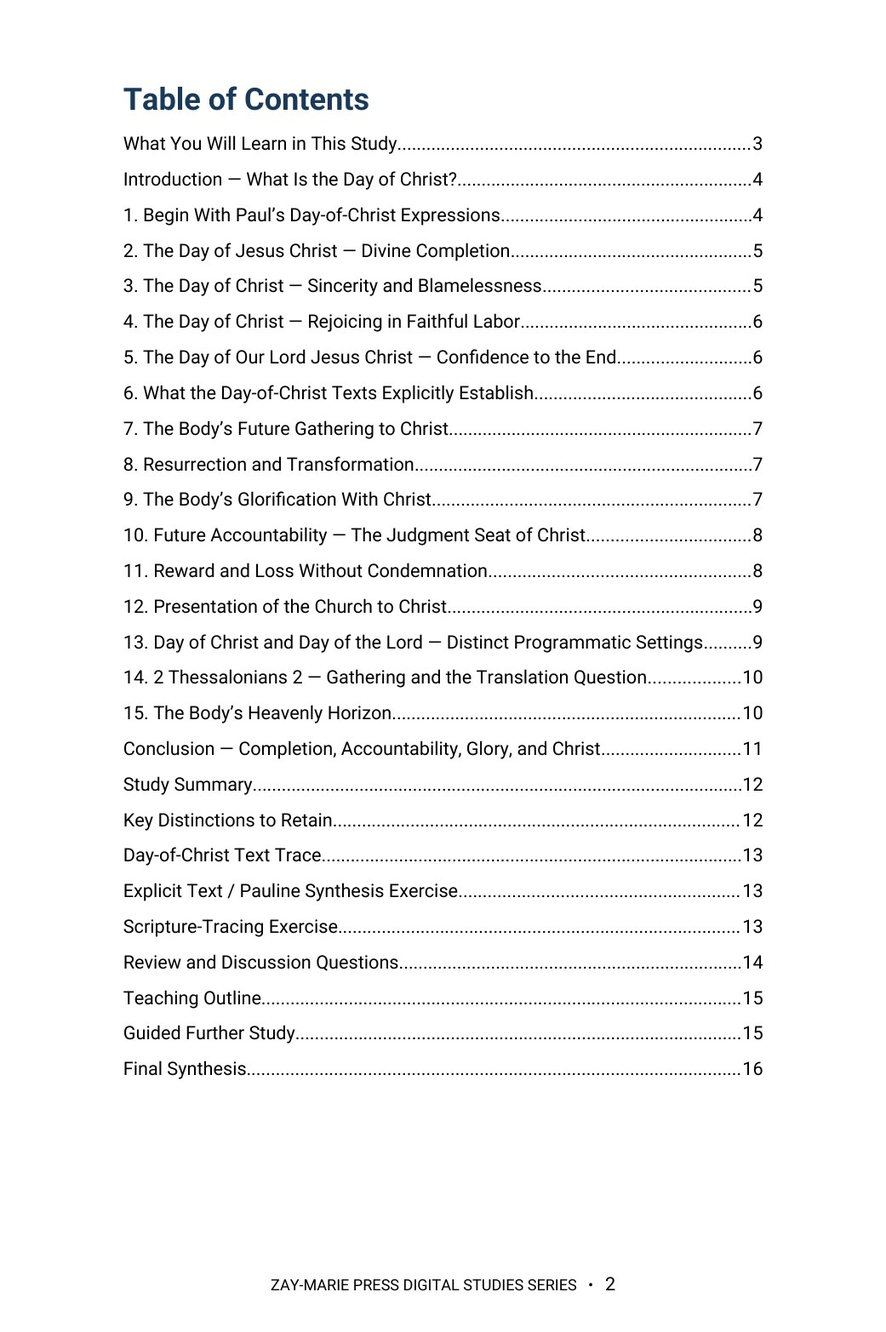
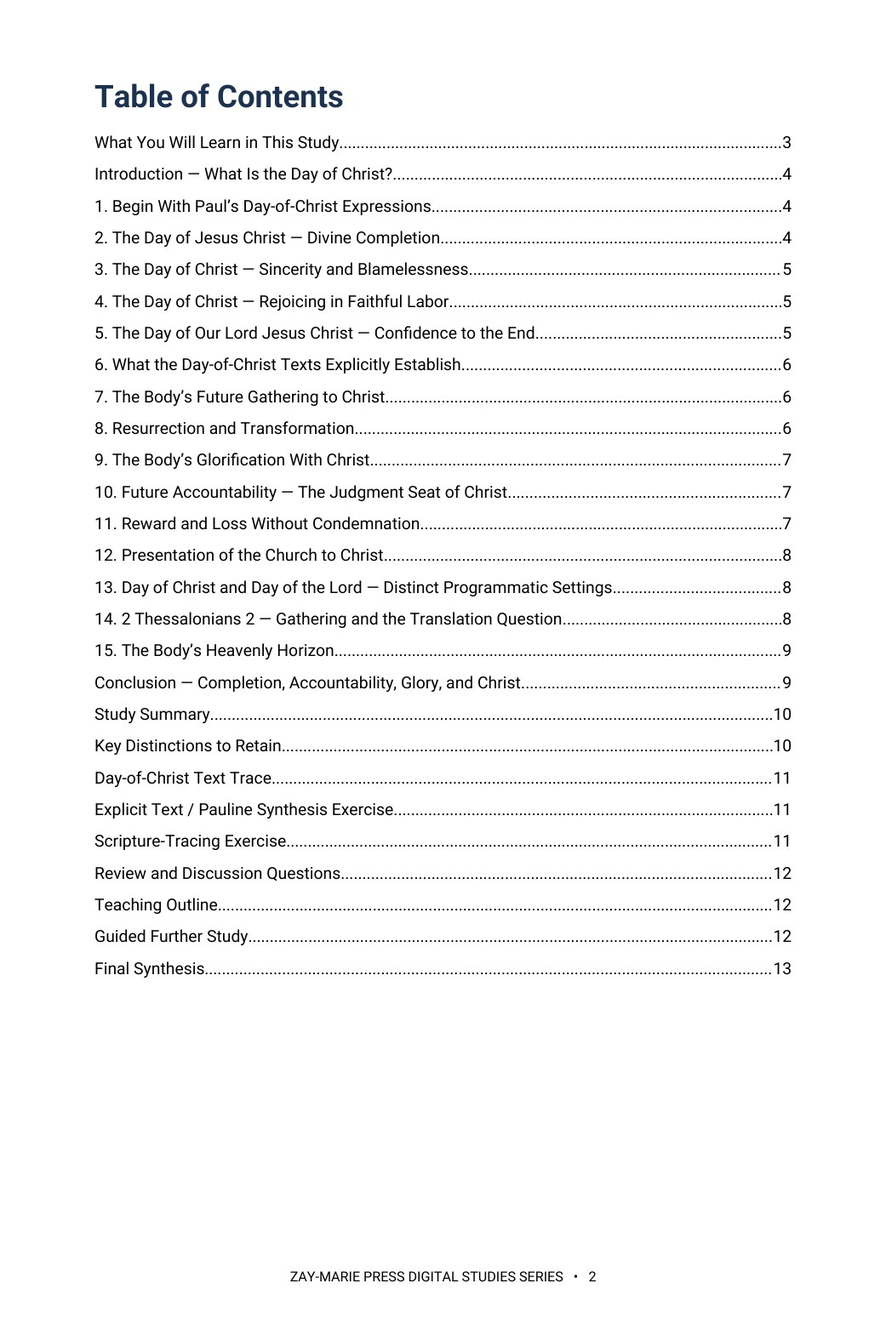
Study 8: retrofit to doctrinal upgrade and Study 52 page geometry (13 pp); page count, previews, trackers
Claude-Session: https://claude.ai/code/session_01KcENxFzE91mCRyTPWhcwnE

diff --git a/study-08-the-day-of-christ.html b/study-08-the-day-of-christ.html
@@ -15,8 +15,8 @@
 <section class="detail-section cream"><div class="wrap"><div class="eyebrow">KEY SCRIPTURES</div><h2>Examine the Passages for Yourself</h2><div class="scripture-grid"><div class="scripture-card"><h3>Philippians 1:6</h3><p>Assures that the good work God began will be completed in the Day of Jesus Christ.</p></div><div class="scripture-card"><h3>Philippians 1:10</h3><p>Connects sincerity and blamelessness with the Day of Christ.</p></div><div class="scripture-card"><h3>Philippians 2:16</h3><p>Places faithful labor and rejoicing in the light of the Day of Christ.</p></div><div class="scripture-card"><h3>1 Corinthians 1:8</h3><p>Speaks of confirmation unto the end in the Day of our Lord Jesus Christ.</p></div><div class="scripture-card"><h3>1 Thessalonians 4:13–18</h3><p>Establishes the Body’s gathering to Christ and its abiding relationship with Him.</p></div><div class="scripture-card"><h3>1 Corinthians 15:51–52</h3><p>Declares the resurrection and transformation of the Body.</p></div><div class="scripture-card"><h3>2 Corinthians 5:10</h3><p>Sets the Judgment Seat before believers as an evaluation of what has been done.</p></div><div class="scripture-card"><h3>Colossians 3:4; Ephesians 5:27</h3><p>Looks ahead to the Body’s appearance with Christ in glory and presentation to Him.</p></div></div></div></section>
 <section class="detail-section"><div class="wrap"><div class="eyebrow">FROM THE STUDY</div><h2>The Body’s Heavenly Hope in Christ</h2><div class="excerpt"><blockquote>“The Day of Christ belongs to the Body’s heavenly hope: completion, gathering, accountability, reward, and glorification in Christ.”</blockquote><p>The Day of Christ is defined by Paul’s language and future-facing promises for the Body. It is therefore not interchangeable with Israel’s prophetic Day of the Lord, even where related passages must be handled with care.</p></div></div></section>
 <section class="detail-section soft"><div class="wrap"><div class="eyebrow">A LOOK INSIDE</div><h2>Preview the Study Before You Purchase</h2><p class="preview-instruction">Click any page to enlarge it for reading.</p><div class="preview-grid"><div class="preview-card"><a class="preview-image-link" data-preview-lightbox href="assets/study-08-page-2.jpg"><img src="assets/study-08-page-2.jpg" alt="Study 8 interior preview — page 2, table of contents"/></a><div class="page-no">Page 2</div><h3>Table of Contents</h3><p>See the full structure of the study, from the introduction through the final synthesis.</p></div><div class="preview-card"><a class="preview-image-link" data-preview-lightbox href="assets/study-08-page-3.jpg"><img src="assets/study-08-page-3.jpg" alt="Study 8 interior preview — page 3, what you will learn"/></a><div class="page-no">Page 3</div><h3>What You Will Learn</h3><p>See the study’s goals for reading Paul’s Day-of-Christ passages and the outline that carries the study forward.</p></div><div class="preview-card"><a class="preview-image-link" data-preview-lightbox href="assets/study-08-page-5.jpg"><img src="assets/study-08-page-5.jpg" alt="Study 8 interior preview — page 5, divine completion and sincerity"/></a><div class="page-no">Page 5</div><h3>Completion and Sincerity</h3><p>Read what Philippians 1:6 and 1:10 explicitly establish before any related doctrine is added.</p></div></div></div></section>
-<section class="detail-section"><div class="wrap"><div class="eyebrow">WHAT’S INCLUDED</div><h2>A Focused Study Built for<br/>Understanding and Teaching</h2><div class="includes-grid"><div class="include-item"><h3>16-Page In-Depth Biblical Study</h3><p>A careful study of the Body’s future hope in the Day of Christ.</p></div><div class="include-item"><h3>15 Core Teaching Sections</h3><p>Progress through the Day texts, gathering, transformation, evaluation, and glorification.</p></div><div class="include-item"><h3>Day-of-Christ Passage Study</h3><p>Examine Paul’s own expressions before bringing related passages alongside them.</p></div><div class="include-item"><h3>Gathering and Transformation Trace</h3><p>Work through the passages that establish the Body’s gathering and future change.</p></div><div class="include-item"><h3>20 Review Questions</h3><p>Test the study’s distinctions concerning the Day, judgment, reward, and hope.</p></div><div class="include-item"><h3>Teaching Outline</h3><p>A ready framework for teaching the Body’s heavenly hope with precision.</p></div><div class="include-item"><h3>Guided Further Study</h3><p>Return directly to the passages on completion, gathering, evaluation, and glory.</p></div><div class="include-item"><h3>Final Synthesis Exercise</h3><p>Bring the Day-of-Christ evidence together in a concise, Scripture-based explanation.</p></div></div></div></section>
-<section class="detail-section cream"><div class="wrap"><div class="final-buy"><div><div class="eyebrow">STUDY 8 · DIGITAL STUDY</div><h2>The Day of Christ</h2><p>16-page digital PDF · For personal use</p></div><div class="final-offer"><div class="detail-price">$5.99</div><span class="detail-button pending" aria-disabled="true">Get the Study</span></div></div><a class="back-link" href="digital-studies.html">← Back to All Digital Studies</a></div></section><section class="study-method-course-bridge"><div class="wrap"><div class="study-method-course-panel"><div><div class="eyebrow">BUILD THE INTERPRETIVE METHOD</div><h2>Want More Than a Focused Study?</h2><p>Digital Studies examine particular biblical subjects and difficult passages. The 40-lesson Biblical Hermeneutics course teaches a complete, repeatable method for establishing meaning in context, determining proper assignment, and making responsible application.</p></div><a class="btn btn-primary" href="biblical-hermeneutics-course.html">BIBLICAL HERMENEUTICS COURSE</a></div></div></section></main>
+<section class="detail-section"><div class="wrap"><div class="eyebrow">WHAT’S INCLUDED</div><h2>A Focused Study Built for<br/>Understanding and Teaching</h2><div class="includes-grid"><div class="include-item"><h3>13-Page In-Depth Biblical Study</h3><p>A careful study of the Body’s future hope in the Day of Christ.</p></div><div class="include-item"><h3>15 Core Teaching Sections</h3><p>Progress through the Day texts, gathering, transformation, evaluation, and glorification.</p></div><div class="include-item"><h3>Day-of-Christ Passage Study</h3><p>Examine Paul’s own expressions before bringing related passages alongside them.</p></div><div class="include-item"><h3>Gathering and Transformation Trace</h3><p>Work through the passages that establish the Body’s gathering and future change.</p></div><div class="include-item"><h3>20 Review Questions</h3><p>Test the study’s distinctions concerning the Day, judgment, reward, and hope.</p></div><div class="include-item"><h3>Teaching Outline</h3><p>A ready outline for teaching the Body’s heavenly hope with precision.</p></div><div class="include-item"><h3>Guided Further Study</h3><p>Return directly to the passages on completion, gathering, evaluation, and glory.</p></div><div class="include-item"><h3>Final Synthesis Exercise</h3><p>Bring the Day-of-Christ evidence together in a concise, Scripture-based explanation.</p></div></div></div></section>
+<section class="detail-section cream"><div class="wrap"><div class="final-buy"><div><div class="eyebrow">STUDY 8 · DIGITAL STUDY</div><h2>The Day of Christ</h2><p>13-page digital PDF · For personal use</p></div><div class="final-offer"><div class="detail-price">$5.99</div><span class="detail-button pending" aria-disabled="true">Get the Study</span></div></div><a class="back-link" href="digital-studies.html">← Back to All Digital Studies</a></div></section><section class="study-method-course-bridge"><div class="wrap"><div class="study-method-course-panel"><div><div class="eyebrow">BUILD THE INTERPRETIVE METHOD</div><h2>Want More Than a Focused Study?</h2><p>Digital Studies examine particular biblical subjects and difficult passages. The 40-lesson Biblical Hermeneutics course teaches a complete, repeatable method for establishing meaning in context, determining proper assignment, and making responsible application.</p></div><a class="btn btn-primary" href="biblical-hermeneutics-course.html">BIBLICAL HERMENEUTICS COURSE</a></div></div></section></main>
 <div class="preview-lightbox" id="preview-lightbox" role="dialog" aria-modal="true" aria-label="Enlarged study page preview"><button class="preview-lightbox-close" type="button" aria-label="Close enlarged preview">×</button><img src="" alt=""/><div class="preview-lightbox-hint">Scroll to read the full page · Press Esc or click outside the page to close</div></div>
 <footer class="site-footer"><div class="wrap footer-grid"><div class="footer-about"><h3>Zay-Marie Press</h3><p class="footer-tagline"><em>Where the Bible Means What It Says.</em></p><p>Zay-Marie Press is a Christian theological publisher dedicated to producing doctrinally precise, carefully structured biblical resources that equip pastors, teachers, and serious students with clarity, depth, and Scripture-anchored truth.</p><p><a href="https://zaymariepress.com">zaymariepress.com</a><br/><a href="mailto:info@zaymariepress.com">info@zaymariepress.com</a></p></div><div class="footer-column"><h3>Explore</h3><div class="footer-links-stacked"><a href="books.html">Books</a><br/><a href="series.html">Series</a><br/><a href="biblical-hermeneutics-course.html">Course</a><br/><a href="digital-studies.html">Digital Studies</a><br/><a href="resources.html">Resources</a><br/><a href="bible-book-summaries.html">Bible Book Summaries</a><br/><a href="doctrinal-packets.html">Doctrinal Packets</a><br/><a href="historical-drift.html">Historical Drift</a><br/><a href="about.html">About</a><br/><a href="contact.html">Contact</a></div></div><div class="footer-column"><h3>Reader Support</h3><div class="footer-links-stacked"><a href="reader-support.html#faq">FAQ</a><br/><a href="reader-support.html#shipping-returns">Shipping &amp; Returns</a><br/><a href="reader-support.html#digital-downloads">Digital Downloads</a><br/><a href="reader-support.html#contact-support">Contact Support</a></div></div><div class="footer-column"><h3>Acts Overlap</h3><p><strong>Acts Overlap Theology Series</strong></p><p><em>Two Distinct Streams. One Overlap.</em></p><p><a href="series.html">Series Overview</a></p></div></div><div class="wrap footer-bottom">© 2026 Zay-Marie Press. All rights reserved.</div></footer>
 <script src="site.js"></script><script>(function(){var box=document.getElementById("preview-lightbox"),img=box.querySelector("img"),close=box.querySelector(".preview-lightbox-close"),hint=box.querySelector(".preview-lightbox-hint"),hintTimer;function shut(){clearTimeout(hintTimer);box.classList.remove("open");hint.classList.remove("fade");document.body.style.overflow="";img.src=""}document.querySelectorAll("[data-preview-lightbox]").forEach(function(a){a.addEventListener("click",function(e){e.preventDefault();clearTimeout(hintTimer);img.src=a.getAttribute("href");img.alt=a.querySelector("img").alt;hint.classList.remove("fade");box.classList.add("open");document.body.style.overflow="hidden";box.scrollTop=0;hintTimer=setTimeout(function(){hint.classList.add("fade")},3000)})});close.addEventListener("click",shut);box.addEventListener("click",function(e){if(e.target===box)shut()});document.addEventListener("keydown",function(e){if(e.key==="Escape"&&box.classList.contains("open"))shut()})})();</script></body></html>

diff --git a/site.js b/site.js
@@ -62,7 +62,7 @@ const resourceModal=document.querySelector('#resource-modal'), resourceModalTitl
 if(resourceModal&&resourceModalTriggers.length){const closeResourceModal=()=>{resourceModal.hidden=true;document.body.classList.remove('resource-modal-open');lastResourceTrigger?.focus();};resourceModalTriggers.forEach(trigger=>trigger.addEventListener('click',()=>{lastResourceTrigger=trigger;if(resourceModalTitle)resourceModalTitle.textContent=trigger.dataset.title||'Resource';if(resourceModalDescription)resourceModalDescription.textContent=trigger.dataset.description||'';if(resourceModalLink){resourceModalLink.href=trigger.dataset.href||'#';resourceModalLink.textContent=trigger.dataset.linkText||'OPEN RESOURCE';}resourceModal.hidden=false;document.body.classList.add('resource-modal-open');resourceModalClose?.focus();}));resourceModalClose?.addEventListener('click',closeResourceModal);resourceModal.addEventListener('click',e=>{if(e.target===resourceModal)closeResourceModal();});document.addEventListener('keydown',e=>{if(e.key==='Escape'&&!resourceModal.hidden)closeResourceModal();});}
 
 /* Display the verified final-PDF page count at the primary purchase decision point. */
-const digitalStudyPageCounts={1:17,2:14,3:16,4:18,5:16,6:16,7:14,8:16,9:16,10:23,11:15,12:15,13:19,14:15,15:16,16:16,17:18,18:18,19:16,20:16,21:17,22:16,23:16,24:16,25:17,26:18,27:16,28:16,29:16,30:17,31:19,32:16,33:16,34:16,35:16,36:16,37:16,38:16,39:16,40:16,41:16,42:16,43:16,44:16,45:16,46:16,47:16,48:16,49:17,50:16,51:16,52:16,53:16,54:16,55:16,56:16,57:16,58:16,61:16,62:16,63:16,64:16,65:16,66:16,67:16,68:16,69:16,70:16,71:16};
+const digitalStudyPageCounts={1:17,2:14,3:16,4:18,5:16,6:16,7:14,8:13,9:16,10:23,11:15,12:15,13:19,14:15,15:16,16:16,17:18,18:18,19:16,20:16,21:17,22:16,23:16,24:16,25:17,26:18,27:16,28:16,29:16,30:17,31:19,32:16,33:16,34:16,35:16,36:16,37:16,38:16,39:16,40:16,41:16,42:16,43:16,44:16,45:16,46:16,47:16,48:16,49:17,50:16,51:16,52:16,53:16,54:16,55:16,56:16,57:16,58:16,61:16,62:16,63:16,64:16,65:16,66:16,67:16,68:16,69:16,70:16,71:16};
 const digitalStudyMatch=window.location.pathname.match(/\/study-(\d+)-/i);
 const digitalStudyFormat=document.querySelector('.detail-hero .detail-format');
 if(digitalStudyMatch&&digitalStudyFormat){const studyNumber=Number(digitalStudyMatch[1]),pageCount=digitalStudyPageCounts[studyNumber];if(pageCount)digitalStudyFormat.textContent=`Digital PDF · ${pageCount} Pages`;}

diff --git a/CLAUDE.md b/CLAUDE.md
@@ -20,7 +20,7 @@ These are kept in the repo at `controlling-documents/` and are the current versi
 - As of v1.47 (publisher directive, 2026-10-02), §6 adds the **Interior Page Geometry and Text Layout Standard**, written into this file in the same pass: every Digital Study, earlier studies included, is set on the later studies' page and layout, not only in Roboto at the same sizes. Page 483.846 × 725.754 pt (9677 × 14515 twips) for cover and interior; cover its own full-bleed section (360 twip margins, no footer); interior margins top 864, bottom 1224, left/right 1031, header 400, footer 475; body left-aligned and flush left with no first-line indent (9 pt black Roboto Regular, 6 pt after, 0 before, 1.08); bold only for run-in leads ("Read:", "Purpose:", "Bring Your Findings Together:") and short emphasis, never a whole paragraph; lists 0 pt after each item and 6 pt after the last, 1.08; callout boxes 7815 twips wide with −100 twip indent; TOC right tab with dot leaders at 7615 twips; only the TOC and What You Will Learn start new pages, later sections flow continuously, and the imprint never stands alone. An earlier study built on any other page size (Letter 612 × 792, 432 × 648) is rebuilt to this geometry when reopened or retrofitted, the page count is recounted and the website updated, and the Heading 1 14 pt / TOC-spacing exemptions for Studies 1–5 and 9 no longer apply to a reopened study. In every study check (Step 1) measure page size, margins, first-line indents, whole-paragraph bold, list spacing, callout width and the TOC tab against Study 52 and report differences. Study 1 is the first earlier study rebuilt to it (17 pages). Preview images are rendered at the page's own aspect (1041×1562 for this page), not stretched.
 **`controlling-documents/Digital_Studies_Relationship_Map_v1.39.md`** — records each study's distinct subject, its related studies, the eight priced six-study collections, the Paul's Missionary Journeys cross-reference map, and the five primary catalog categories (currently version 1.39, covers Studies 1–71; update it as new studies publish, bump the version number, rename the file to match, and log the change in its own version-history table — mirroring the Master Standard's `_vX.Y` filename convention). Check a proposed topic against it before recommending or writing a new study. (2026-09-28: the file was missing from this repo despite this note referencing it; replaced from the publisher's copy and bumped v1.15→v1.25 in the same pass. If this note ever again points to a version not present under `controlling-documents/`, ask the publisher for a copy rather than proceeding without the check.)
 - **`controlling-documents/Digital_Studies_Category_Standard_v1.1.md`** — FINAL and binding (publisher, 2026-10-01): the rules for the five primary catalog categories (Foundations, Israel & Prophecy, Body of Christ, Passages, Doctrinal Themes), the ordered decision procedure for new studies, the precedents, all 71 fixed assignments, and the cover-label form for each category. Read it before placing any card or cover label. Do not ask the publisher where a study belongs; apply the procedure and state the result. Only the publisher changes a ruling; then bump this Standard's version and filename, re-letter the cover, and update the Relationship Map.
-- **`controlling-documents/Doctrinal_Upgrade_Retrofit_Plan_v1.33.md`** — working tracker for retrofitting Studies 1–59 to the 2026-10-02 doctrinal upgrade (Framework/PAM v1.1, Master Standard v1.40, Rules 7–17): withdrawn-wording search keys, impact tiers, waves and the per-study method. Read it before continuing the retrofit in any session; update status, bump the version and rename the file as work proceeds.
+- **`controlling-documents/Doctrinal_Upgrade_Retrofit_Plan_v1.34.md`** — working tracker for retrofitting Studies 1–59 to the 2026-10-02 doctrinal upgrade (Framework/PAM v1.1, Master Standard v1.40, Rules 7–17): withdrawn-wording search keys, impact tiers, waves and the per-study method. Read it before continuing the retrofit in any session; update status, bump the version and rename the file as work proceeds.
 - **`controlling-documents/Doctrinal_Packet_Standard_v0.3.md`** — Doctrinal Packet Standard (DRAFT; §7 approved). Governs the separate Doctrinal Packets product strand (5-page interpretive PDFs per Bible book — a print-friendly cover as page 1 plus 4 content pages, $2.99, KJV, pilot: Genesis, live at `packet-genesis.html`, hub `doctrinal-packets.html`; site pages say "5 Pages", cover styles live in `packets.css`, Old Testament blue and New Testament soft pale green, hub listed in Bible order). **Preview rule (publisher directive, 2026-09-29, packets only):** previews show about one page's worth in two cropped views (top of page 1 through the anchor texts; the chart section) — never the exegesis, architecture, Mystery contrast, logic chain, outline, or closing. Master Standard §16/§17 still govern Digital Studies. Bump the version and rename the file as the Standard is finalized.
 - **`controlling-documents/Preview_Page_Spoiler_Retrofit_Audit_v1.4.md`** — working tracker for the Studies 1–60 preview-page conclusion-spoiler retrofit (see the section below). Read it before continuing that audit in any session; update its status fields and changelog, bump the version, and rename the file to match as the audit proceeds — same `_vX.Y` convention as the other controlling documents. As of v1.1, the website-side half was DONE: all 60 studies' "What You'll Study" text was judged against the rule (methodology documented in the file) and 22 points across 11 studies were rewritten and pushed; an unrelated Study 22 content bug (Study 21's content had leaked into it) was also found and fixed. As of v1.2, the publisher supplied Studies 1–60's interior production PDFs and the interior-PDF half was also surveyed (read-only): 10 studies (37, 41, 45, 47, 48, 49, 51, 52, 53, 54) were found to have at least one interior "What You Will Learn" violation, 50 studies were confirmed compliant, and the orphaned `assets/study-45-sanctification-under-grace.docx` (removed from the repo per the publisher in v1.0) was confirmed word-for-word identical to Study 45's actual production interior PDF content. As of v1.3, the publisher supplied editable DOCX sources for all 10 violating studies; all 15 violating points were rewritten and approved, delivered as corrected final PDFs, and — along the way — a second defect was found and fixed (Studies 47 and 48's source DOCX still had an unintegrated cover placeholder despite both being long-published live with real covers; fixed by inserting the existing approved cover art). The website's "What You Will Learn" preview image (`study-NN-page-3.jpg`) was regenerated from the corrected content for all 10 studies and pushed to `main` (commit `cea1859`), verified against a fresh clone. **The website side of this audit is now fully compliant for all 60 studies.** Outstanding: the publisher's purchasable interior PDF files themselves have corrected versions delivered, but distribution to existing purchasers was decided by the publisher on 2026-09-29: silent swap of the files behind the existing downloads, no reissue notice (recorded in the v1.4 changelog entry; the product files are not in this repo).
 

diff --git a/controlling-documents/Doctrinal_Upgrade_Retrofit_Plan_v1.34.md b/controlling-documents/Doctrinal_Upgrade_Retrofit_Plan_v1.34.md
@@ -45,6 +45,7 @@ Working tracker for correcting published studies to the Framework/PAM v1.1, Mast
 | 1 The Bride of Christ | Tier 2 read (overlap, Romans 11, Acts 28, Rule 18) | DONE 2026-10-02 (v1.31): interior corrected and rebuilt to the later studies' page geometry (483.85 x 725.75 pt, Study 52 margins and footer, no first-line indents, run-in-lead bold only, Study 52 list spacing, continuous flow) (17 pp, Roboto only; TOC renumbered). Overlap sentence, Rule 17 remnant sentence, Rule 18 (full and short form), Acts 28 'national judicial suspension, not abolition and not a transfer', Romans 11 four boundaries + triad (new 6.1), 'framework' wording removed from reader text, anchors in reader-facing form. Conformance: five boxed callouts incl. Study Goal (sixth demoted to body paragraph), body 6/0/1.08, Heading 1 17 pt / Heading 2 12 pt navy #1B3350, body black Roboto Regular 9 pt, TOC at body spacing with dot leaders, footer added, section 10 imprint (tagline and URL lines removed). Website: 'bridal framework' and 'ready framework' copy replaced; previews 2, 3 and 15 re-rendered at 1041x1562 (Guided Further Study moved from page 13 to 15); site.js 1:17. |
 | 3 The Body of Christ and the Tribulation | Tier 2 read (Acts 28, overlap, Revelation, anchors) | DONE 2026-10-02 (v1.32): interior corrected and rebuilt to the Study 52 page geometry (16 pp, Roboto Regular/Bold/Italic; TOC renumbered). Acts 28 'national judicial suspension, not abolition and not a transfer' in 7 places; standing overlap sentence added; Body-absent-from-Revelation and Gentiles-in-prophetic-scenes lines added; 4 'framework' wordings removed; anchors for Thessalonians and Philippians 3:20; running header removed; standard copyright text. Cover title re-lettered at 70% (TRIBULATION a further 25%) at the publisher's direction. Website: page counts 16, previews 2, 3 and 10 (comparison table moved from page 11), cover replaced, 3 'framework' phrases removed; site.js 3:16. |
 | 7 The Day of the Lord | Tier 2 read (Day-of-the-Lord boundary, Revelation, anchors) | DONE 2026-10-02 (v1.33): interior corrected and rebuilt to the Study 52 page geometry (14 pp, Roboto Regular/Bold/Italic). Day-of-the-Lord reading already conformed (Body not in the Day; THEY/YOU); added the Revelation/Daniel and Gentiles-in-the-Day lines, the Thessalonians reader-facing anchor; 8 'framework' uses reworded; lowercase 'lord/christ' and stray capitals fixed; imprint set to the standard text; cover section made full-bleed with the approved ISRAEL & PROPHECY cover. Website: site.js 7:14, '14-Page', 'ready outline', preview 6->5 at 1041x1562. |
+| 8 The Day of Christ | Tier 2 read (Day-of-the-Lord boundary, anchors, framework wording) | DONE 2026-10-02 (v1.34): interior corrected and rebuilt to the Study 52 page geometry (13 pp, Roboto Regular/Bold/Italic). Day of Christ / Day of the Lord reading already conformed; added the Body-not-in-the-Day line (section 13) and the Philippians/Thessalonians/Colossians reader-facing anchor; 4 'framework' uses reworded; lowercase 'christ/pauline' and stray capitals fixed; imprint to the standard text. Titus 2:13 left unanchored (no ruling). Website: site.js 8:13, '13-Page', 'ready outline', previews 2/3/5 at 1041x1562. |
 | 39 The Church's Relationship to Israel's Scriptures | Abrahamic/covenant participation + overlap sentence | DONE 2026-10-02 (v1.23): interior corrected (16 pp, Roboto). Withdrawn overlap sentence replaced with the standing sentence and Acts 28 'not abolition and not a transfer' added (§9); 'Gentiles participate spiritually' replaced by the standing Galatians 3 sentence (§8) and 'whole/every covenant term' partial-transfer wording tightened (§8, Study Summary, Key Distinctions table); Romans 11 four-point list and triad added (Introduction); 2 Timothy and Philippians anchors converted and a Colossians anchor added. Sections moved down: TOC updated (7 numbers); 16 pp. Website: previews 2, 3, 5 re-rendered at 1041x1565; site.js 39:16 unchanged |
 | 40 Who Is Abraham's Seed? | Gal 3 / Abrahamic participation (core) | DONE 2026-10-02 (v1.22): interior corrected (16 pp, Roboto). Withdrawn overlap sentence replaced with the standing sentence (Introduction); Romans 11 four-point list and triad added (Introduction); the 'Gentiles participate spiritually / Abrahamic heirship, benefit, inheritance, connection' family replaced with the standing Galatians 3 sentence and plain wording (§6, §8, §10, Study Summary, Key Distinctions table); Romans 4 'participate in promise' and Teaching Outline 'share that benefit' reworded. Sections moved down: TOC updated (Conclusion p10, Scripture-Tracing p11, Guided Further Study p16); 16 pp. Website: preview pages 2, 3 and 4 re-rendered; site.js 40:16 unchanged |
 | 52 Sonship and Adoption | Gal 3 / Abrahamic participation | DONE 2026-10-02 (v1.21): interior corrected (16 pp, Roboto). Withdrawn Galatians 3:26–29 'Gentiles participate spiritually / ethnic distinction is kept' wording replaced by the standing Galatians 3 sentence (3.4) and the 'participation in the seed is spiritual' line reworded; Study 40 pointer parenthetical removed; nine 'The Framework does not assign…' anchors and the Hebrews sentence converted to the reader-facing forms; Romans 11 four-point list and triad added (Group 3). Shorter anchors moved sections up a page, so TOC numbers updated (§5 p9, §6 p11, Conclusion p12, etc.); total still 16 pp. Website: page-2 (TOC) preview re-rendered; pages 3 and 5 unchanged |
@@ -112,3 +113,4 @@ Working tracker for correcting published studies to the Framework/PAM v1.1, Mast
 - v1.32 (2026-10-02): Study 3 retrofit complete (see row). Next: Wave 4 remainder (7, 8, 10, 23, 26, 29, 31, 32, 33): DOCX needed from the publisher for each. Wave 5 notes added: Studies 1 and 21 imprints carry an extra 'Scripture quotations are from the King James Version (KJV)' sentence that Study 52 lacks; Study 1's 'Investigation' sub-headings are navy 12 pt where Study 52 uses bold black lines; preview images for 52/53 were cut to 1041x1347 from a taller page and look stretched (recheck).
 
 - v1.33 (2026-10-02): Study 7 retrofit complete (see row). Next: Wave 4 remainder (8, 10, 23, 26, 29, 31, 32, 33): DOCX needed from the publisher for each.
+- v1.34 (2026-10-02): Study 8 retrofit complete (see row). Next: Wave 4 remainder (10, 23, 26, 29, 31, 32, 33): DOCX needed from the publisher for each. Open: ask whether Titus joins the anchored-letters list.

diff --git a/controlling-documents/Digital_Studies_PAM_Audit_v1.128.md b/controlling-documents/Digital_Studies_PAM_Audit_v1.128.md
@@ -357,3 +357,4 @@ Study 15 PDF not yet supplied. Typography: none of Studies 2, 3, 6, 8 is in EB G
 - v1.125 (2026-10-02): Study 3 retrofitted: Acts 28 standing wording, overlap sentence, Revelation/Gentiles lines, 'framework' removed, Thessalonians and Philippians anchors; rebuilt to the standard page geometry (16 pp); cover title reduced at the publisher's direction.
 - v1.126 (2026-10-02): Study 7 retrofitted: Revelation/Daniel and Gentiles-in-the-Day lines, Thessalonians anchor, 'framework' wording removed; rebuilt to the standard page geometry (14 pp); approved cover swapped in.
 - v1.127 (2026-10-02): Study 7 footer corrected to the standard text "ZAY-MARIE PRESS DIGITAL STUDIES SERIES • page" (the build had kept the source title footer); previews 2, 3, 5 re-rendered. Wave 5: Study 3 footer is gray 5A5A5A at 7.5 pt where Study 52 is 333333 at 8.5 pt; recheck Studies 1, 3, 7.
+- v1.128 (2026-10-02): Study 8 retrofitted: Body-not-in-the-Day line, Philippians/Thessalonians/Colossians anchor, 'framework' wording removed; rebuilt to the standard page geometry (13 pp); Titus 2:13 unanchored pending ruling.
